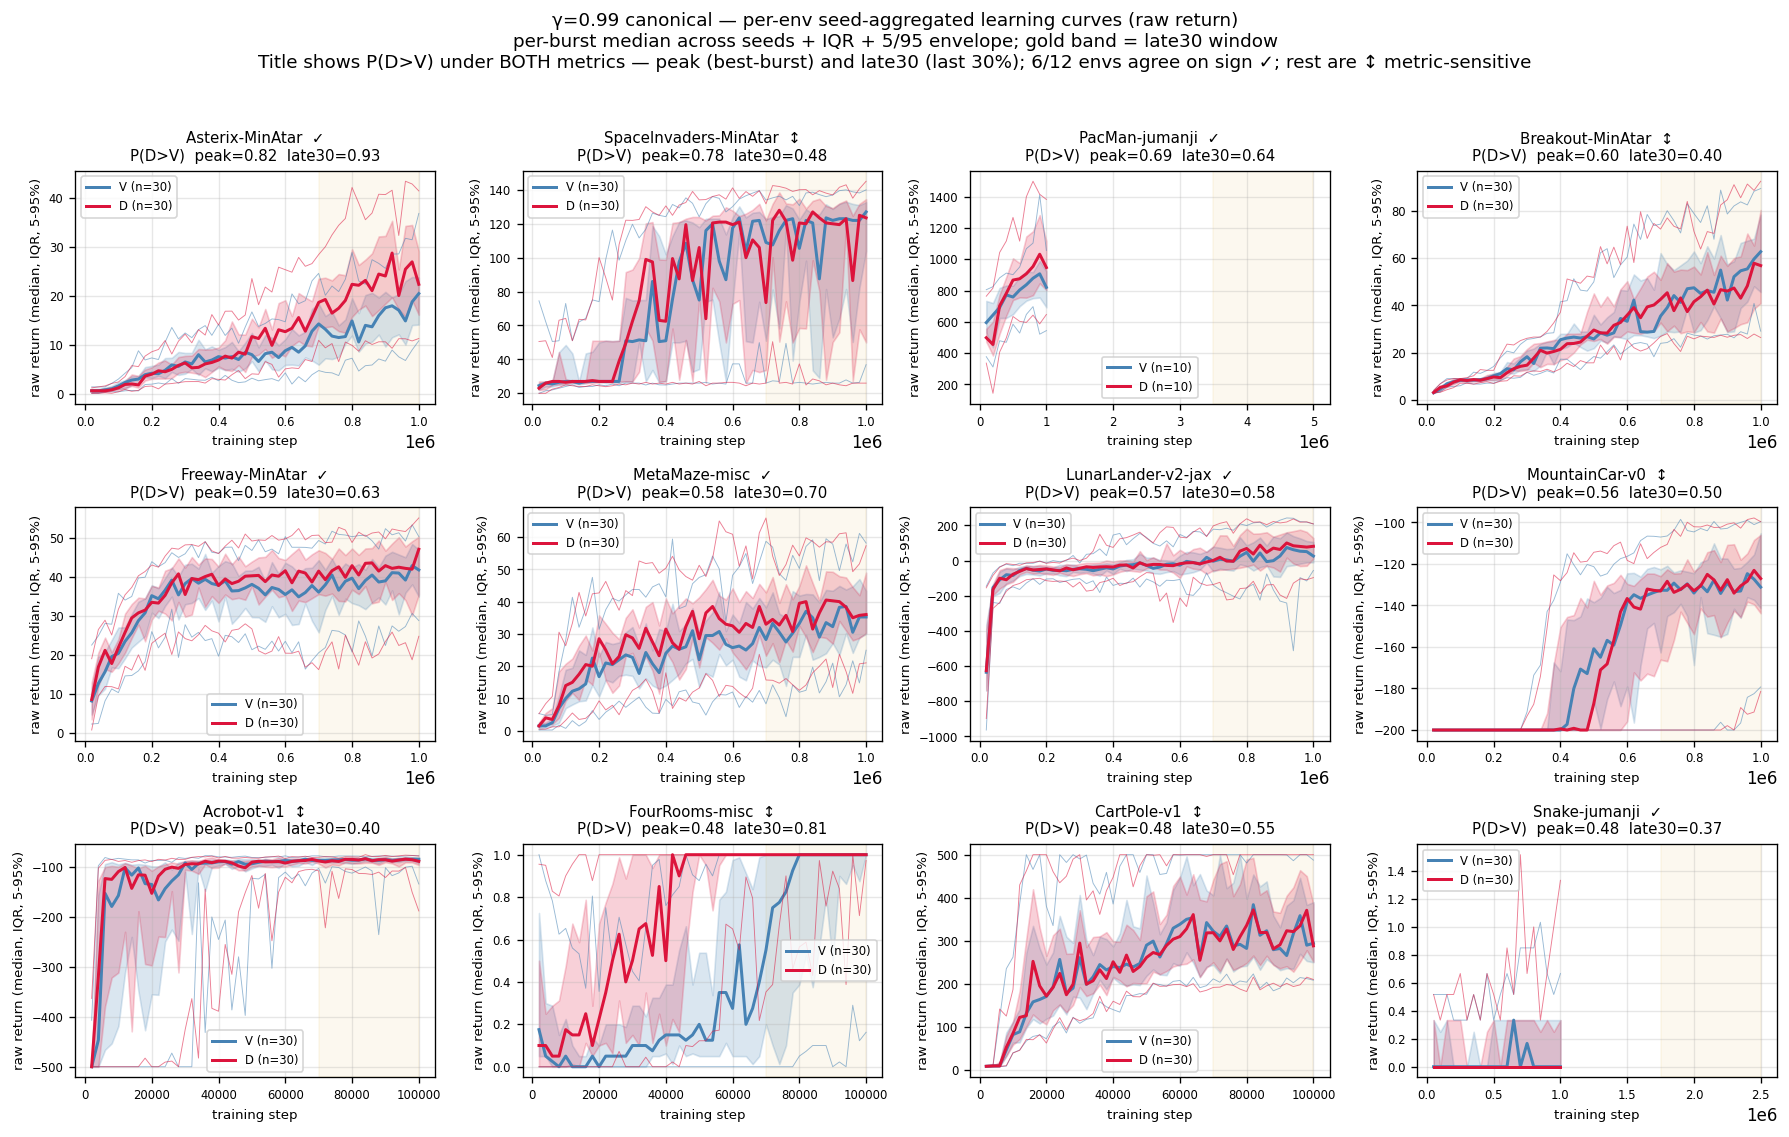
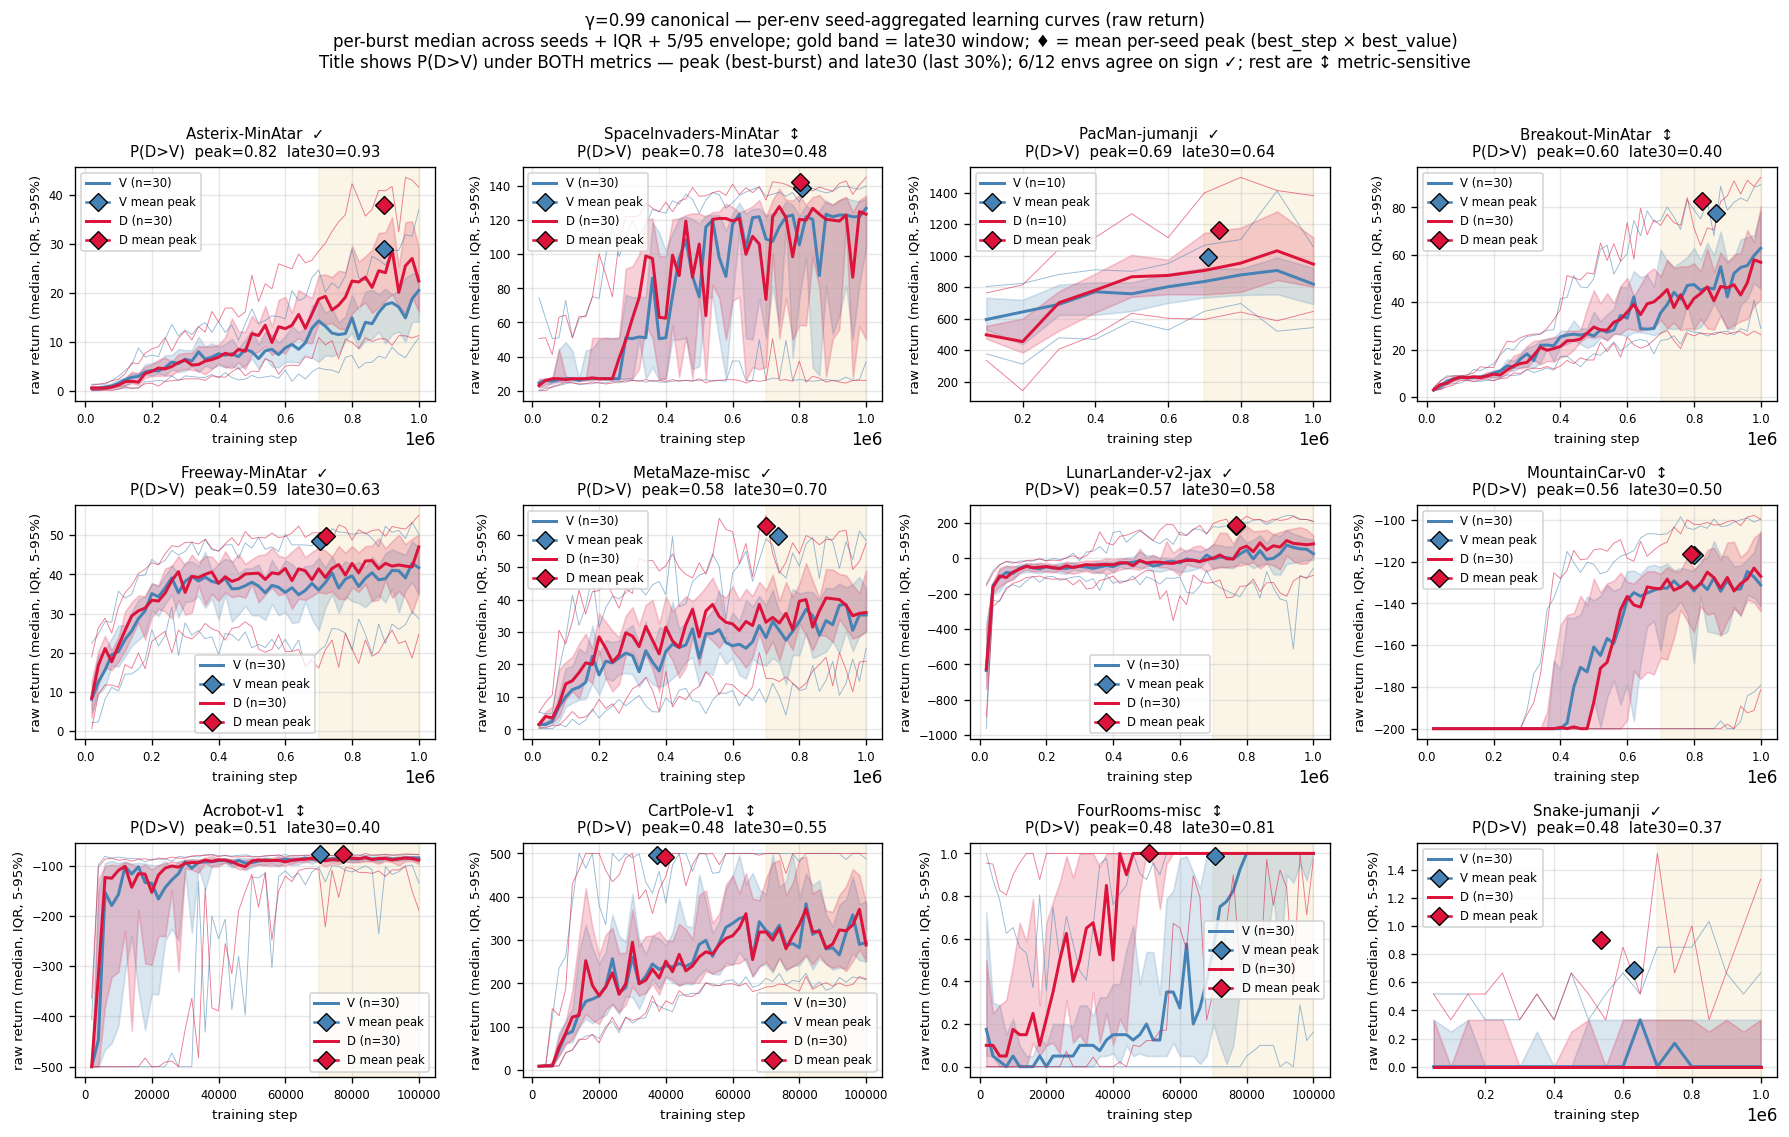
papers/g099_mediation: learning curves — fix gold band to use actual trajectory length; add ♦ mean per-seed peak marker (both axes).
Two refinements based on visual review:

(1) Gold band: previously hardcoded 50 bursts × eval_every; replaced
    with env_max_len × eval_every so 100k-step envs (Acrobot/CartPole/FR)
    get the correct band anchored to their actual training length.
(2) Mean per-seed peak marker: a ♦ diamond per arm at
    (mean_seed(best_step), mean_seed(best_value)).  Encodes BOTH the
    typical WHEN of peak and the typical HOW-HIGH of peak — directly
    visualises the per-cell scalar that the peak P(D>V) summarises.

The ♦ position relative to the late30 band makes the metric-disagreement
story self-evident: where ♦ sits above the late30 median band, the env
is exhibiting peak-collapse; where ♦ sits inside the band, peak and
late30 agree.

diff --git a/papers/g099_mediation/scripts/gen_per_env_learning_curves.py b/papers/g099_mediation/scripts/gen_per_env_learning_curves.py
@@ -109,6 +109,7 @@ def main() -> None:
         eval_every = int(sub['eval_every'].drop_nulls()[0]) if 'eval_every' in sub.columns else 20000
 
         results = {}
+        env_max_len = 0
         for arm_label, arm_pred, color in [
             ('V', pl.col('arm_key') == VANILLA_ARM, 'steelblue'),
             ('D', pl.col('arm_key') == DDQN_ARM, 'crimson'),
@@ -123,6 +124,7 @@ def main() -> None:
             if not arrs:
                 continue
             max_len = max(len(a) for a in arrs)
+            env_max_len = max(env_max_len, max_len)
             stack = np.full((len(arrs), max_len), np.nan, dtype=np.float64)
             for r, a in enumerate(arrs):
                 stack[r, :len(a)] = a
@@ -137,21 +139,34 @@ def main() -> None:
                     label=f'{arm_label} (n={len(arrs)})')
             ax.plot(x, mn, color=color, linewidth=0.55, alpha=0.55)
             ax.plot(x, mx, color=color, linewidth=0.55, alpha=0.55)
+            # Per-seed peak — both x (best step) and y (best value).
+            # Compute argmax-burst per cell to get a step + value pair.
+            peak_steps: list[float] = []
+            peak_vals: list[float] = []
+            for traj in arrs:
+                if traj.size == 0 or not np.any(np.isfinite(traj)):
+                    continue
+                idx = int(np.nanargmax(traj))
+                peak_steps.append((idx + 1) * eval_every)
+                peak_vals.append(float(traj[idx]))
+            if peak_steps:
+                mean_step = float(np.mean(peak_steps))
+                mean_val = float(np.mean(peak_vals))
+                ax.plot(mean_step, mean_val, marker='D', color=color,
+                        markersize=8, markeredgecolor='black',
+                        markeredgewidth=0.8, zorder=10,
+                        label=f'{arm_label} mean peak')
             results[arm_label] = {'median_last': median[-1], 'n': len(arrs)}
 
         pxy_peak = link_pxy.get(env, 0.5)
         pxy_late = link_late_pxy.get(env, 0.5)
-        # Draw the late-window region as a faint vertical band so the
-        # reader sees what late30 is summarising.
-        if 'V' in results and 'D' in results:
-            x_max = max(results.get('x_max', 0),
-                         results.get('x_max', 0))
-        # Use eval_every × n_bursts × 0.7 as the band start
-        band_left = (1 - LATE_WINDOW_FRAC) * 50 * eval_every
-        band_right = 50 * eval_every
-        ax.axvspan(band_left, band_right, color='goldenrod', alpha=0.07,
-                   zorder=0)
-        # Differential indicator on the title: ≈ if peak and late30 agree on sign
+        # Late-window band — computed from the env's actual trajectory length,
+        # not a hardcoded 50.
+        if env_max_len > 0:
+            band_left = (1 - LATE_WINDOW_FRAC) * env_max_len * eval_every
+            band_right = env_max_len * eval_every
+            ax.axvspan(band_left, band_right, color='goldenrod', alpha=0.10,
+                       zorder=0)
         sign_peak = '+' if pxy_peak > 0.5 else ('−' if pxy_peak < 0.5 else '·')
         sign_late = '+' if pxy_late > 0.5 else ('−' if pxy_late < 0.5 else '·')
         agree = '✓' if sign_peak == sign_late else '↕'
@@ -173,10 +188,11 @@ def main() -> None:
                    if (link_pxy.get(e, 0.5) - 0.5) * (link_late_pxy.get(e, 0.5) - 0.5) >= 0)
     fig.suptitle(
         'γ=0.99 canonical — per-env seed-aggregated learning curves (raw return)\n'
-        'per-burst median across seeds + IQR + 5/95 envelope; gold band = late30 window\n'
+        'per-burst median across seeds + IQR + 5/95 envelope; gold band = late30 window; '
+        '♦ = mean per-seed peak (best_step × best_value)\n'
         f'Title shows P(D>V) under BOTH metrics — peak (best-burst) and late30 (last 30%); '
         f'{n_agree}/{len(envs)} envs agree on sign ✓; rest are ↕ metric-sensitive',
-        fontsize=11,
+        fontsize=10,
     )
     plt.tight_layout(rect=[0, 0, 1, 0.96])
     plt.savefig(OUT, dpi=120, bbox_inches='tight')
